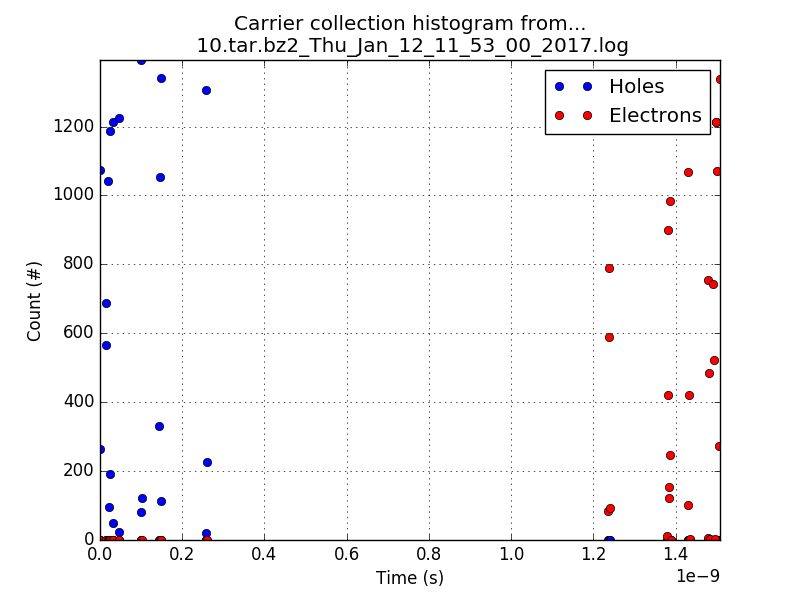
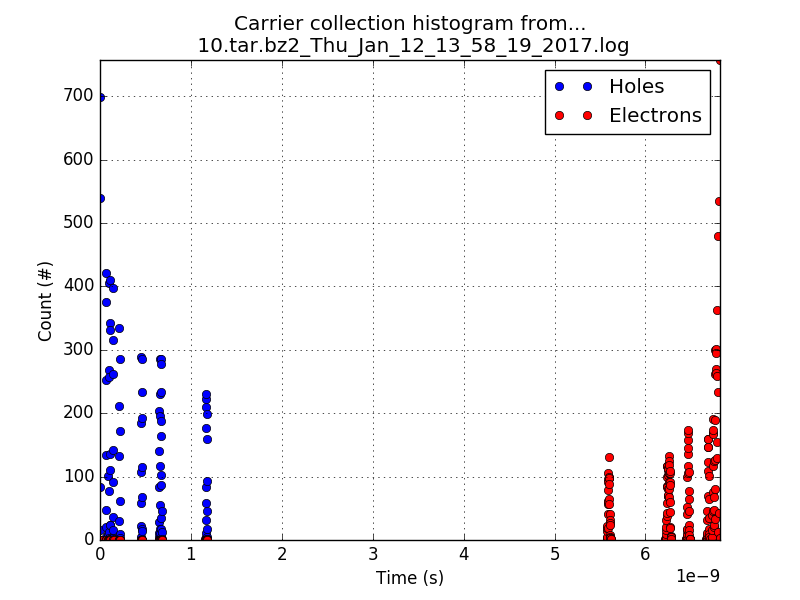
Diffusion effect seems to be minimal
Re-calculated with 200 V of bias but the effect of diffusion seems
minimal.

diff --git a/log_vis.py b/log_vis.py
@@ -64,6 +64,12 @@ def main():
     data_store = {}
     with open(logfile, 'r') as fp:
         logfile_lines = fp.readlines()
+
+        # Check if the input logfile is valid
+        if len(logfile_lines) < 1:
+            raise ValueError('Empty file!!')
+            sys.exit(1)
+
         for ll in logfile_lines:
             # read in time
             time_matched = re.search(r"\[[+-]?\d+(?:\.\d+)?\s[a-z]+\]", ll)

diff --git a/src/sim_dimension.h b/src/sim_dimension.h
@@ -26,7 +26,7 @@ const fp_t Z_START = 0.0;
 const fp_t Z_END = 500;
 
 // Bias (in V)
-const fp_t BIAS_ANODE = -900;     // Bulk electrode side: photons impinge here...
+const fp_t BIAS_ANODE = -200;     // Bulk electrode side: photons impinge here...
 const fp_t BIAS_CATHODE = -1;     // Pixel electrode side
 
 // Doping concentration
